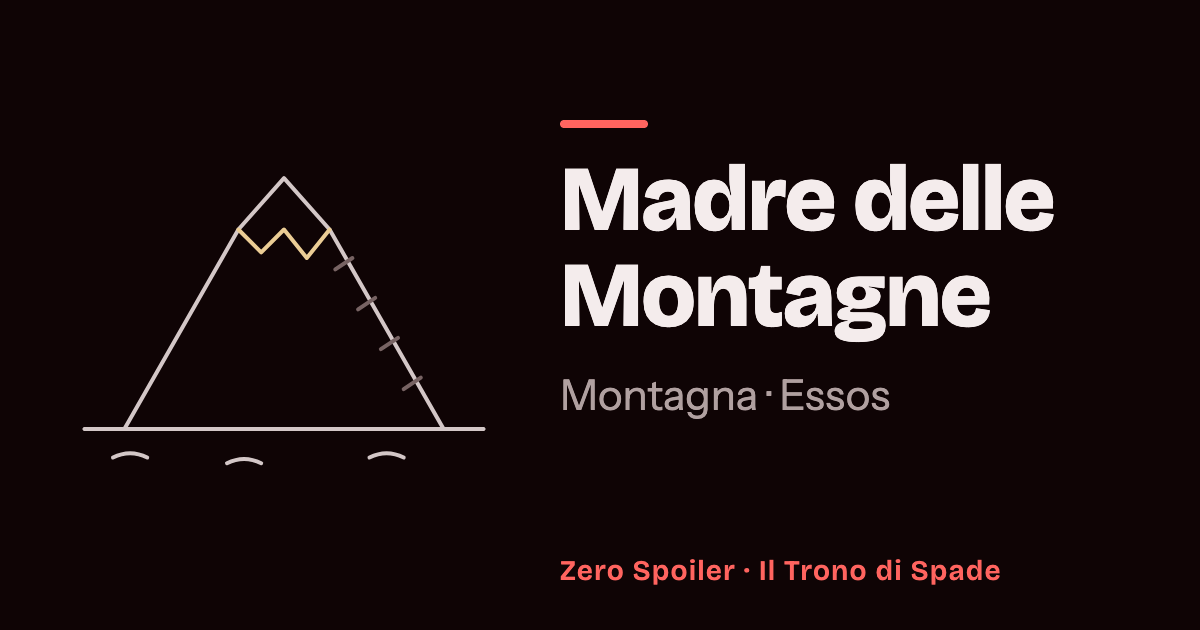
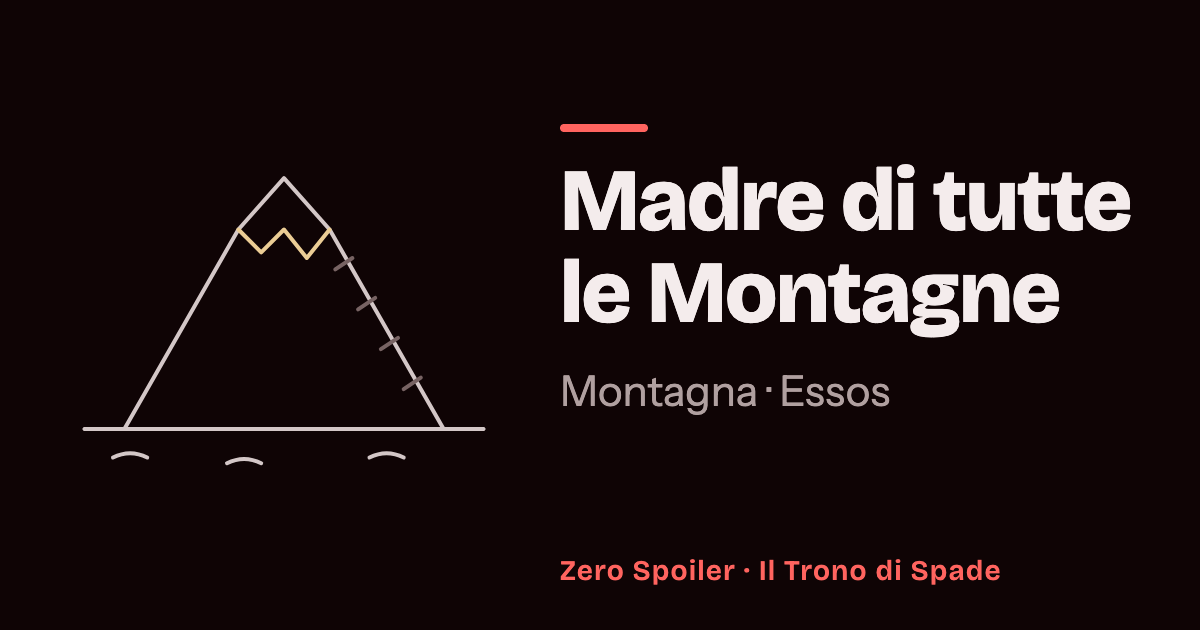
fix(thrones): give the Mother of Mountains its Italian Wikipedia name
Italian Wikipedia names it Madre di tutte le Montagne in its text, so the
books' form marked unverified gives way to it.

diff --git a/src/data/series/game-of-thrones/records/season-1.ts b/src/data/series/game-of-thrones/records/season-1.ts
@@ -2697,7 +2697,7 @@ export const season1: ThronesSaga = {
       kind: 'place',
       revealedAtEpisode: 7,
       revealedAtChapter: 37,
-      name: { it: 'Madre delle Montagne', en: 'The Mother of Mountains' },
+      name: { it: 'Madre di tutte le Montagne', en: 'The Mother of Mountains' },
       summary: {
         it: 'La montagna sacra dei Dothraki, sopra Vaes Dothrak.',
         en: 'The sacred mountain of the Dothraki, above Vaes Dothrak.',
